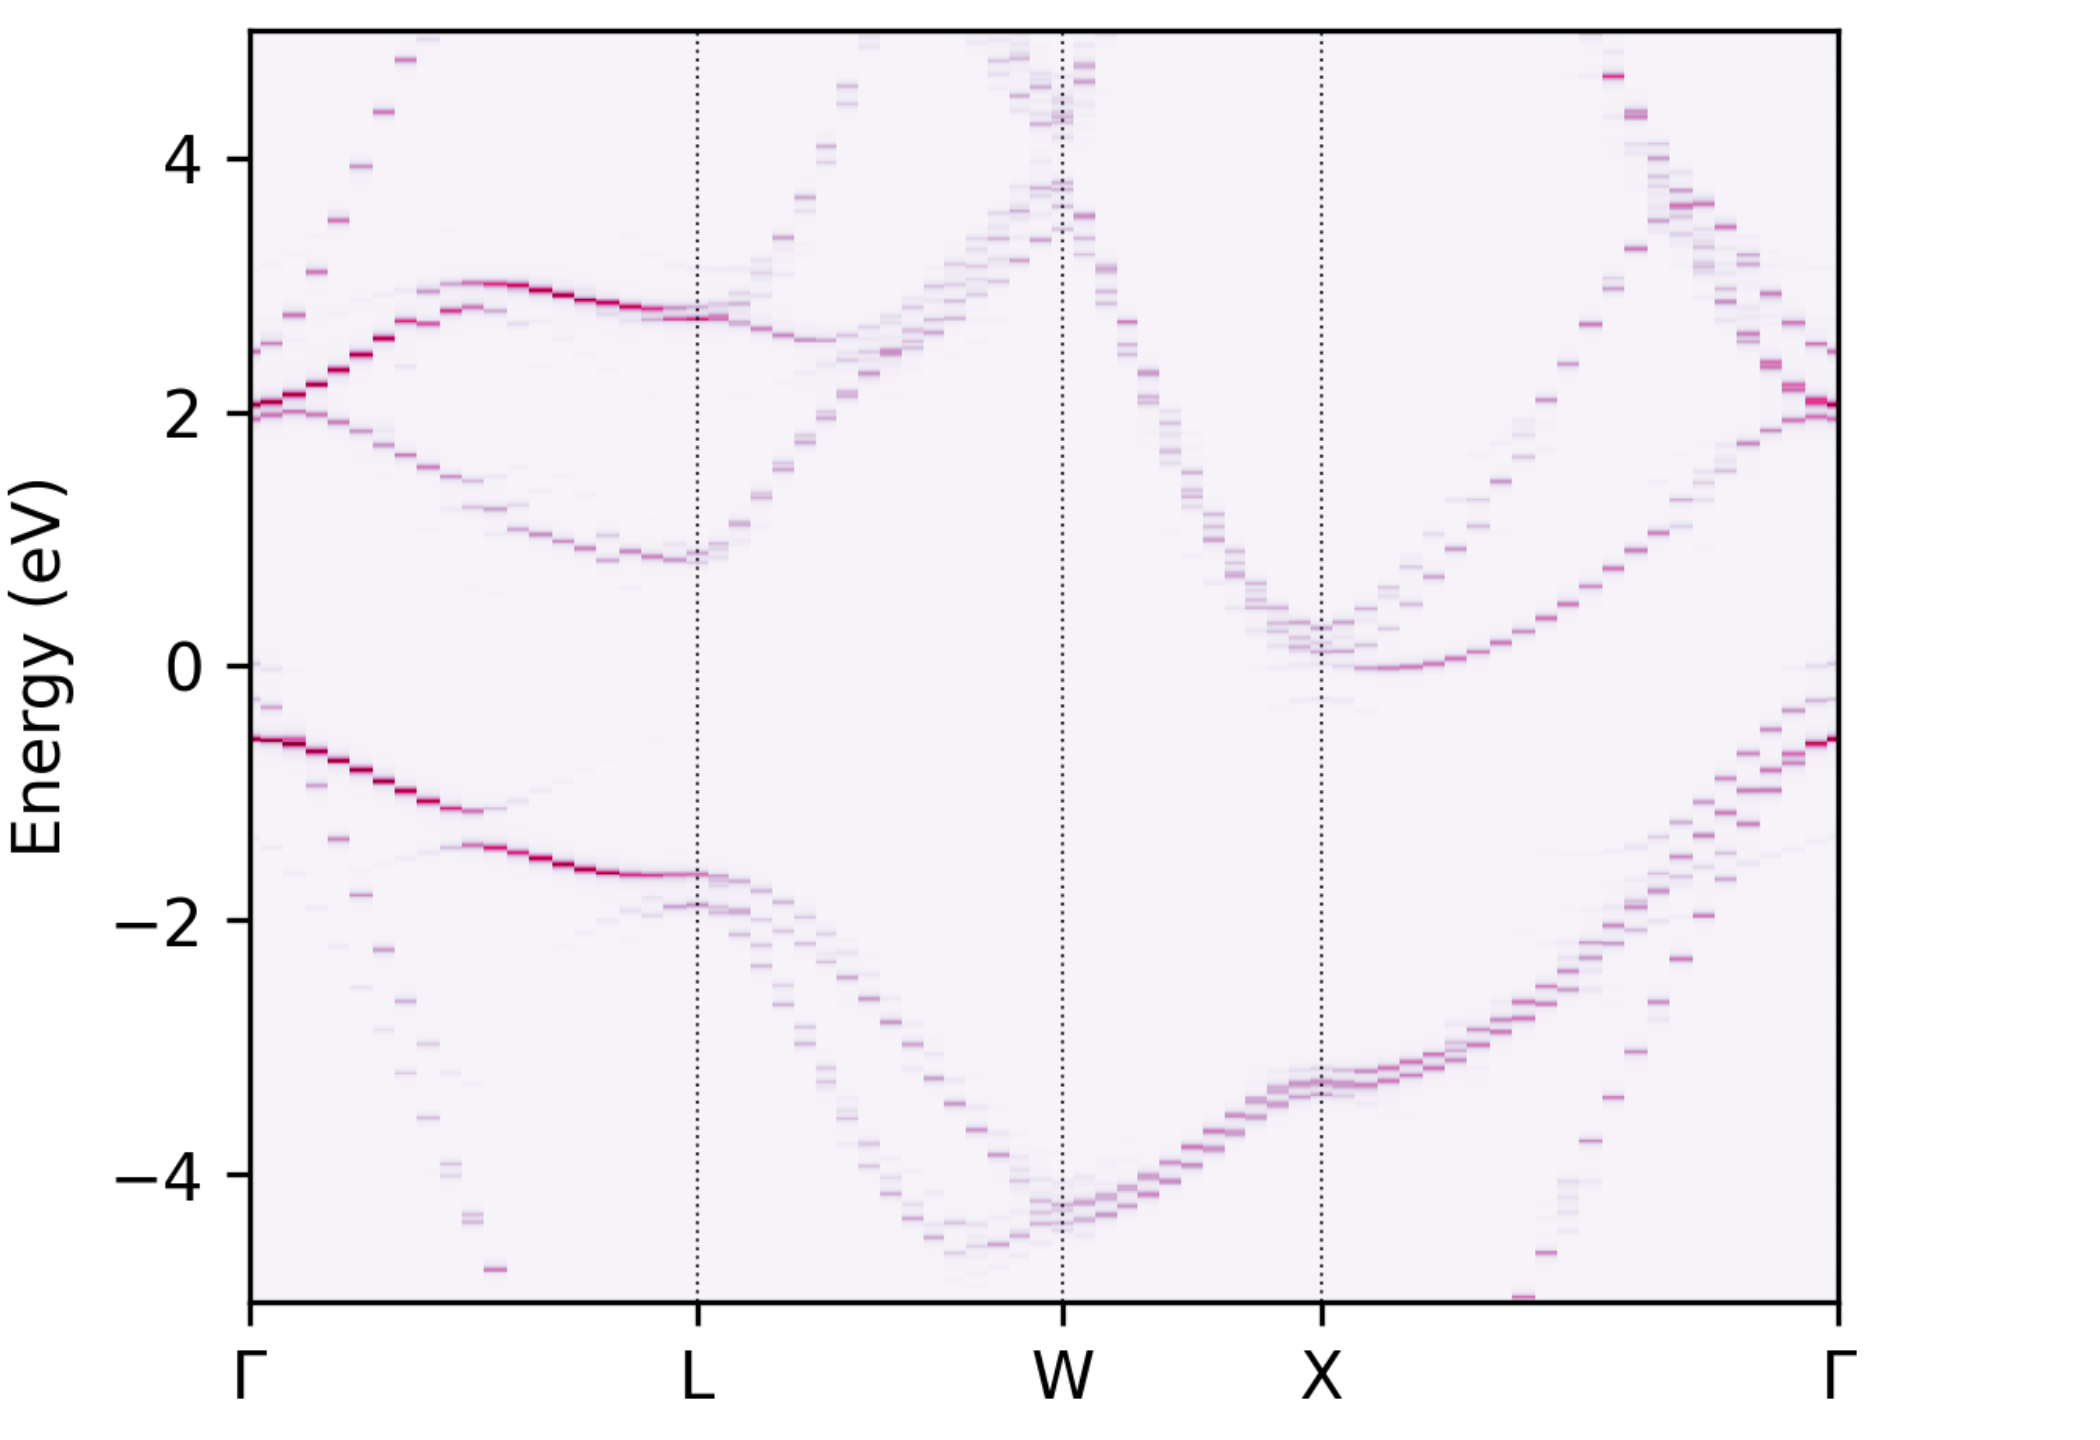
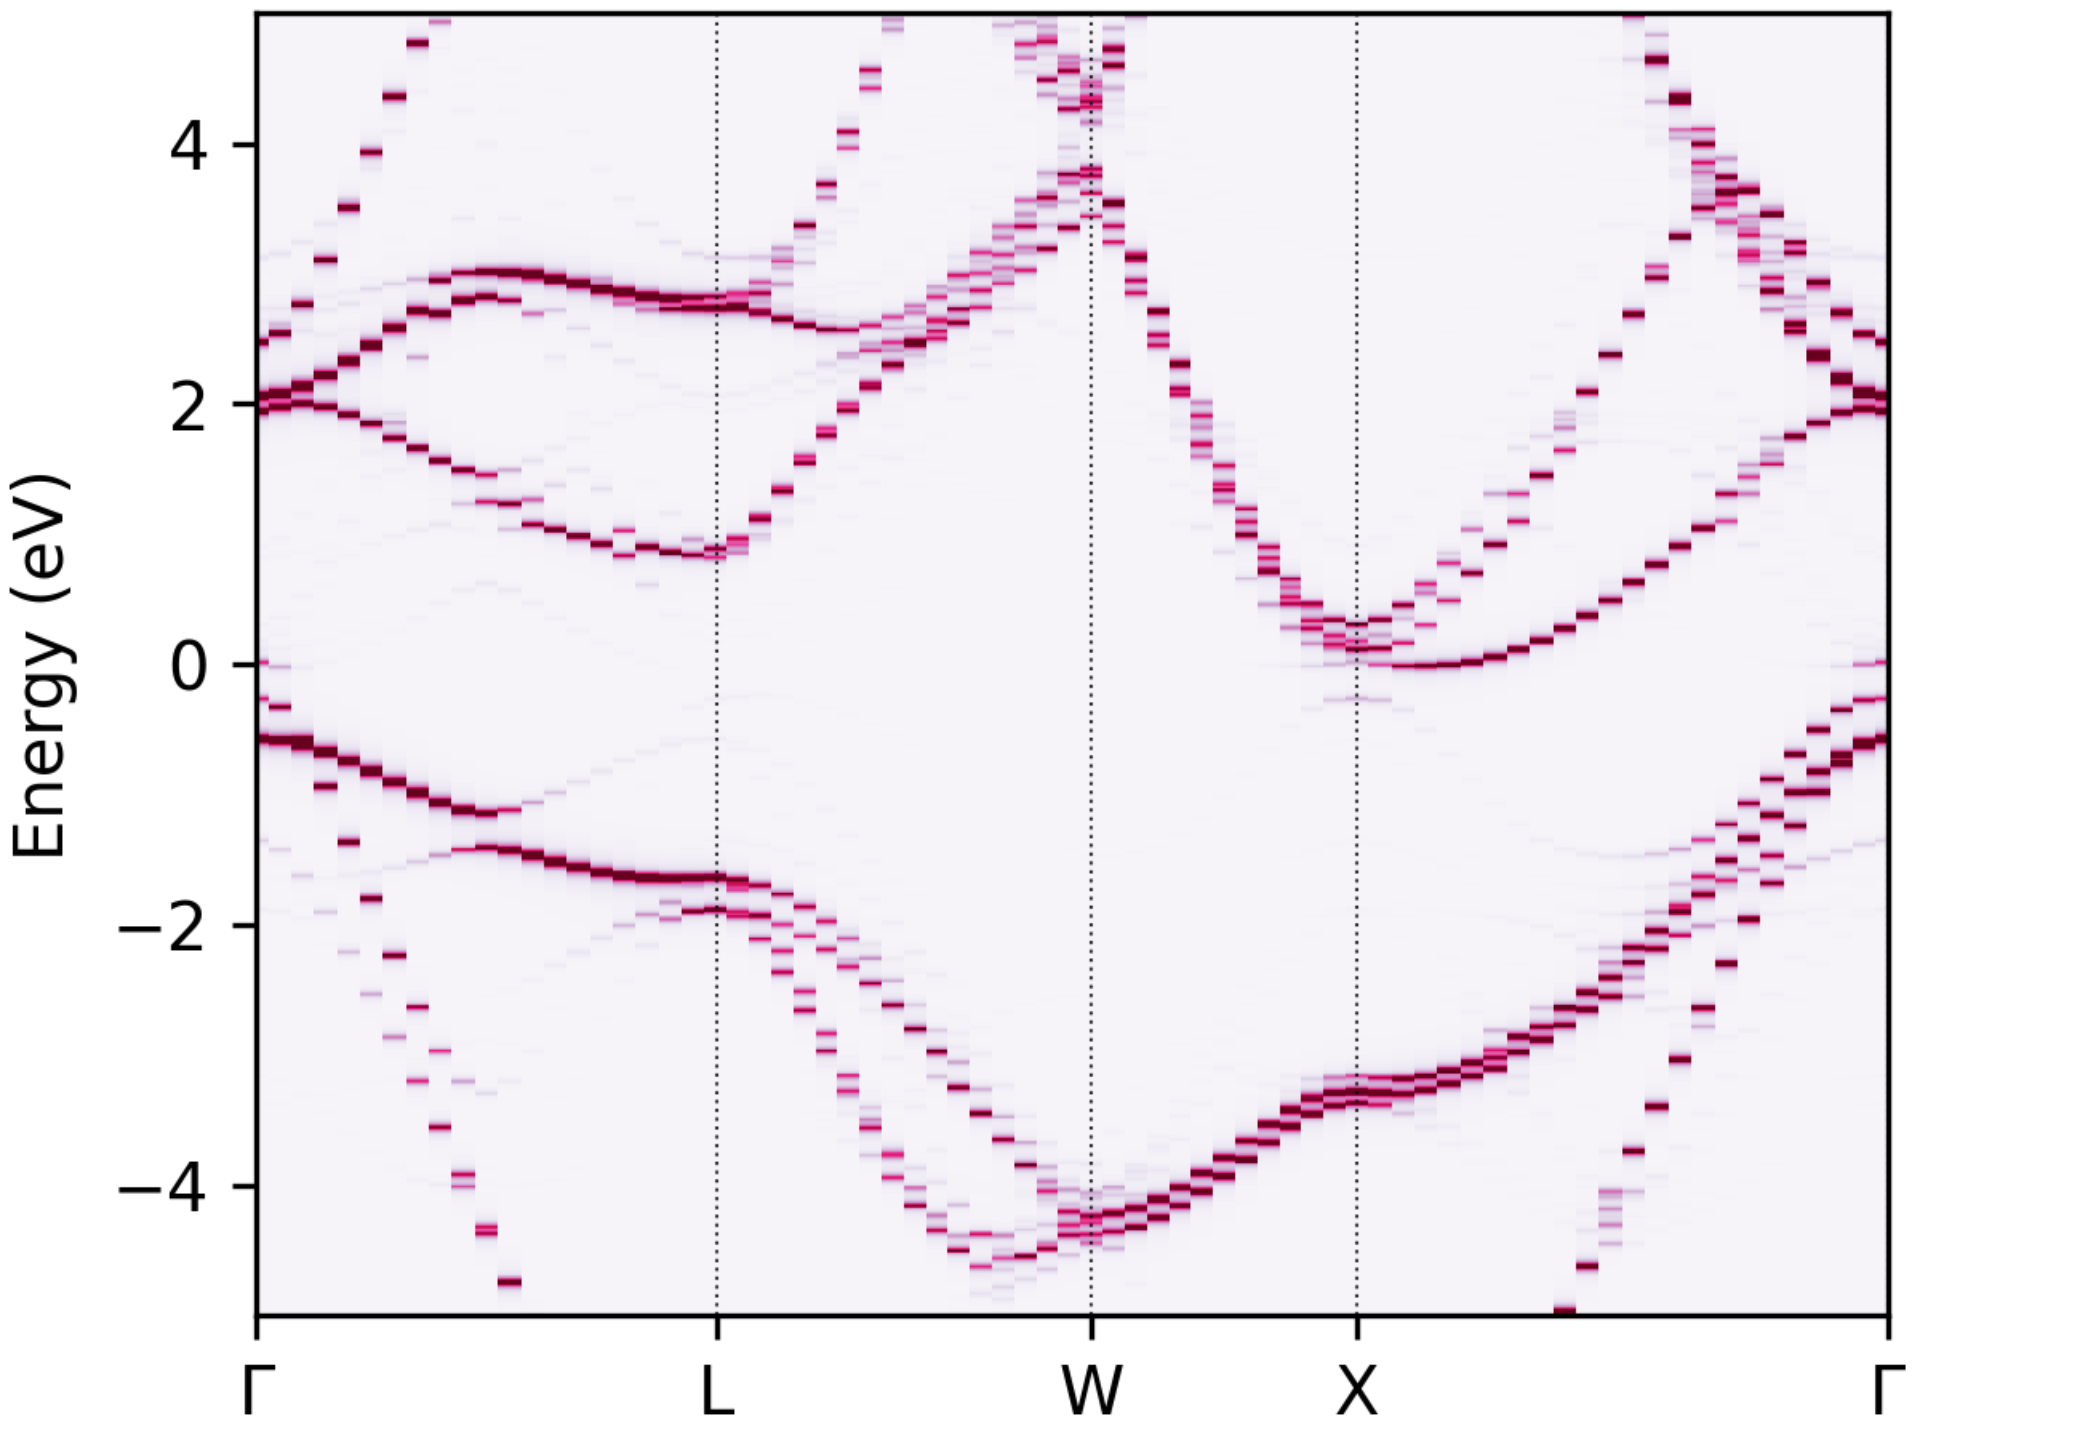
Update `Si222` plots (first plots potential users will see, want them looking decent)

diff --git a/docs/examples/example_si222.md b/docs/examples/example_si222.md
@@ -41,7 +41,7 @@ Supercell cell information:
         Point group: m-3m
 
 No. of k points in the primitive cell           : 73
-No. of (non-symmetry-reduced) supercell kpoints : 132 (136)
+No. of supercell k points                       : 103
 No. of primitive cell symmetry operations       : 48
 No. of supercell symmetry operations            : 6
 
@@ -126,8 +126,9 @@ Spectral function of the unfolded bands.
 ```
 
 :::{tip} 
-See the [NaBiS<sub>2</sub> example](https://smtg-ucl.github.io/easyunfold/examples/example_nabis2.html) for tips on customising 
-and prettifying the unfolded band structure plot.
+See the [NaBiS<sub>2</sub> example](https://smtg-ucl.github.io/easyunfold/examples/example_nabis2.html) for tips on 
+customising and prettifying the unfolded band structure plot. Here we have also actually used the `--colour-norm 0.3` 
+option to increase the spectral function intensity.
 :::
 
 
@@ -162,7 +163,7 @@ cd Si_super_deformed
 mpirun -np 4 vasp_std
 cd ../
 easyunfold unfold --data-file  no-expand.json calculate Si_super_deformed/WAVECAR
-easyunfold unfold --data-file  no-expand.json  plot --out-file unfold_no-expand.png
+easyunfold unfold --data-file  no-expand.json  plot --out-file unfold_no-expand.png --colour-norm 0.3
 ```
 
 output:
@@ -200,7 +201,7 @@ Primitive cell information:
         Point group: m-3m
 
 No. of k points in the primitive cell           : 73
-No. of supercell kpoints                        : 70
+No. of supercell k points                       : 70
 No. of primitive cell symmetry operations       : 48
 No. of supercell symmetry operations            : 6
 

diff --git a/docs/examples/example_si211_castep.md b/docs/examples/example_si211_castep.md
@@ -42,7 +42,7 @@ Primitive cell information:
         Point group: m-3m
 
 No. of k points in the primitive cell           : 21
-No. of (non-symmetry-reduced) supercell kpoints : 60 (61)
+No. of supercell k points                       : 51
 No. of primitive cell symmetry operations       : 48
 No. of supercell symmetry operations            : 24
 
